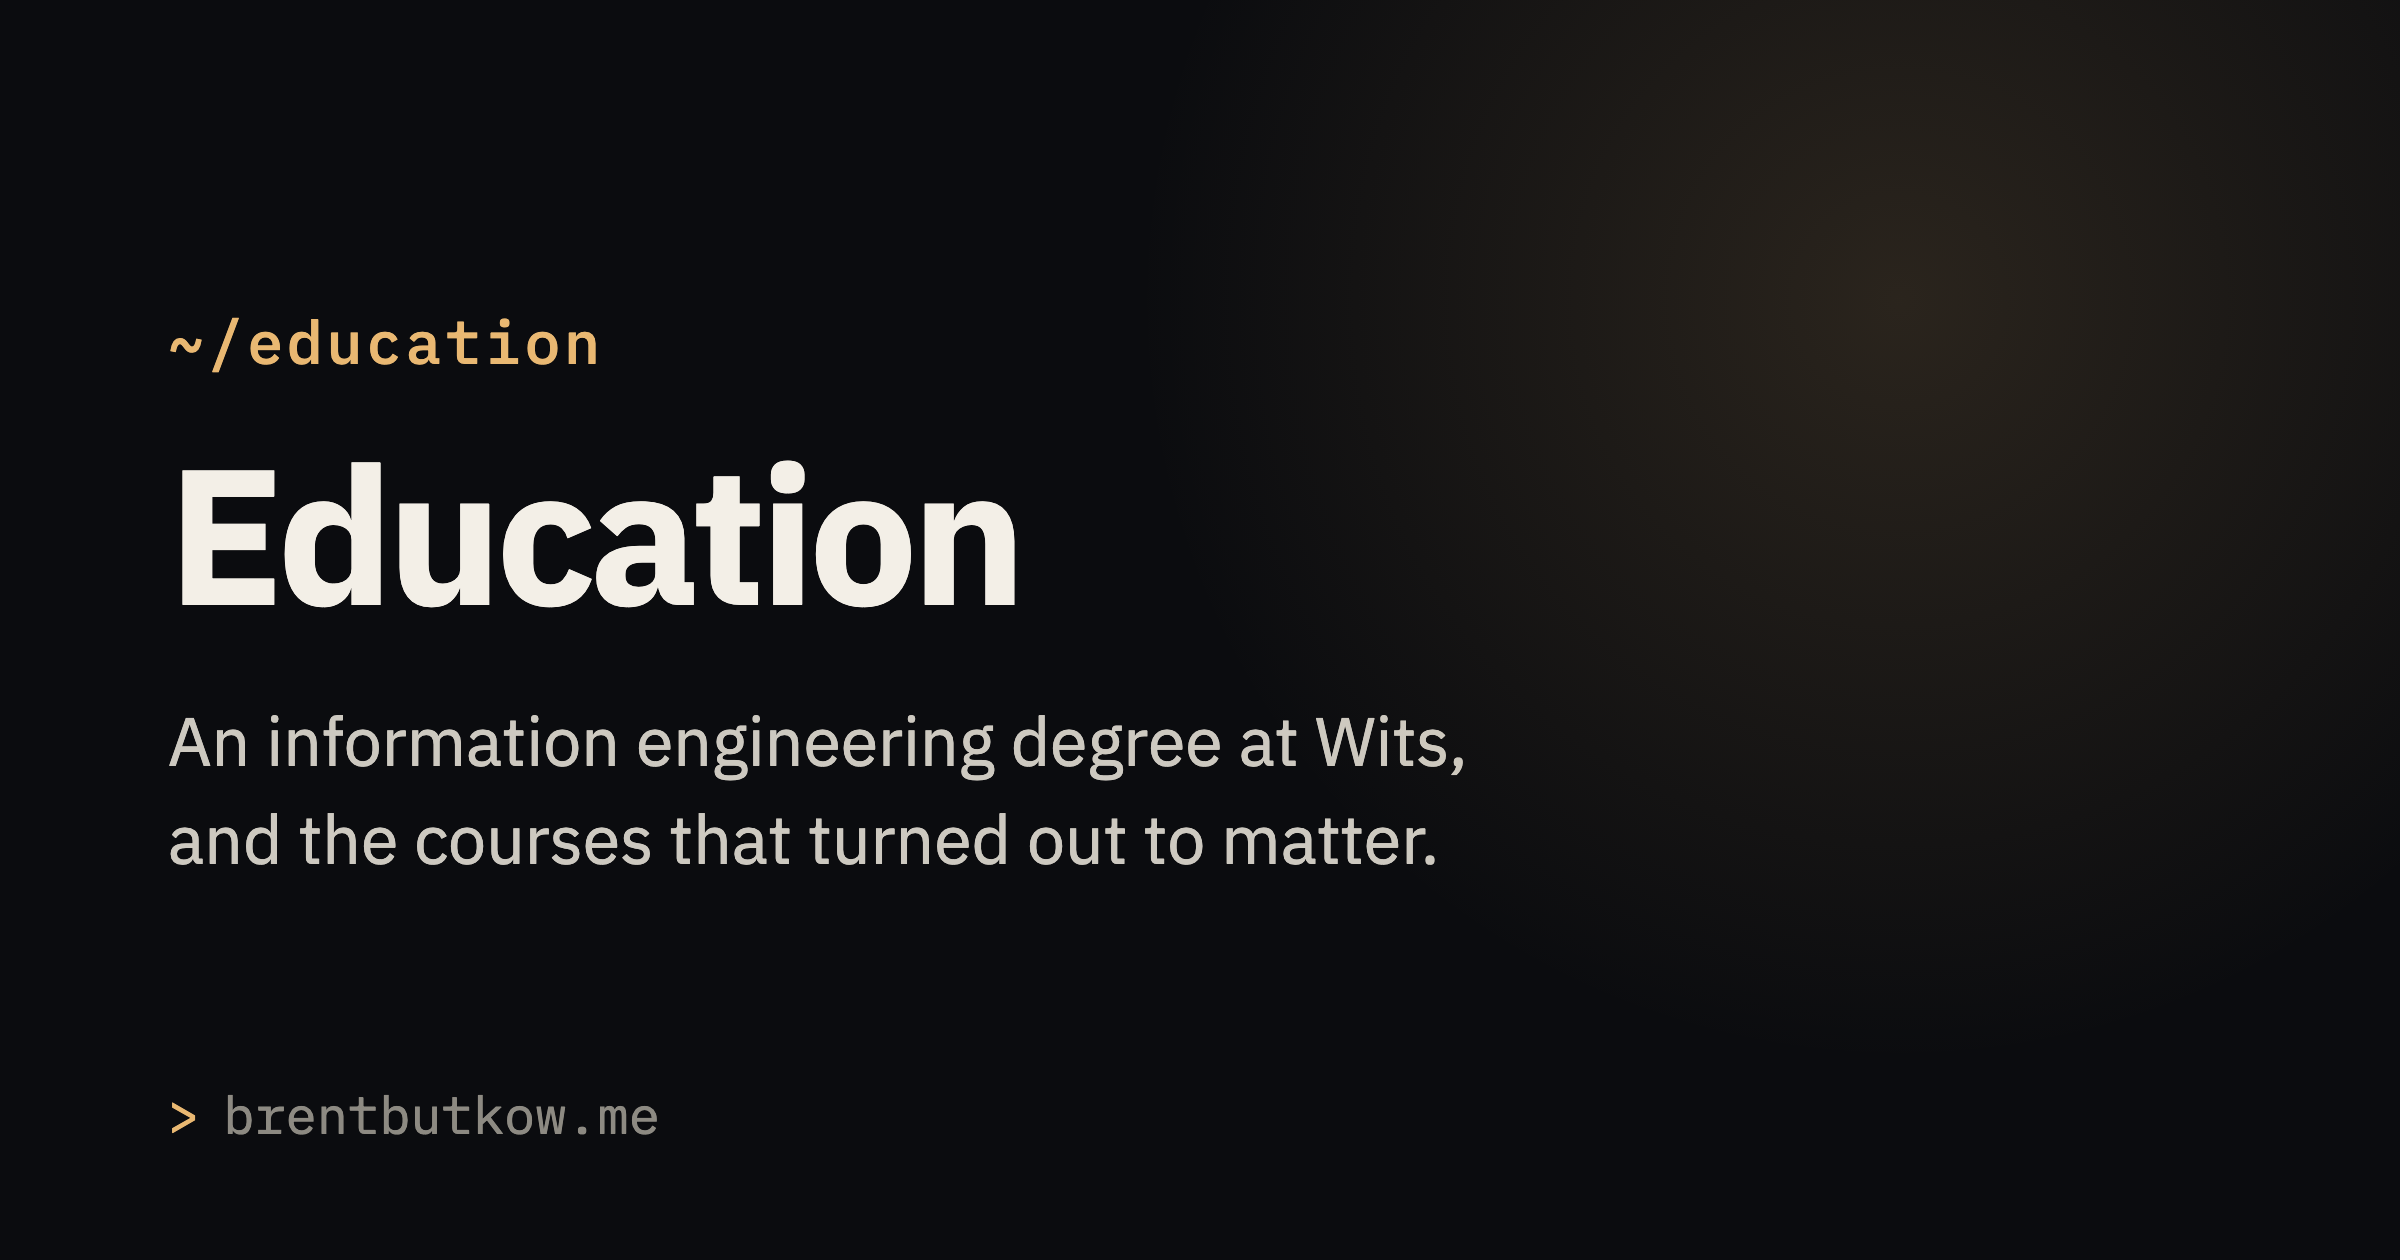
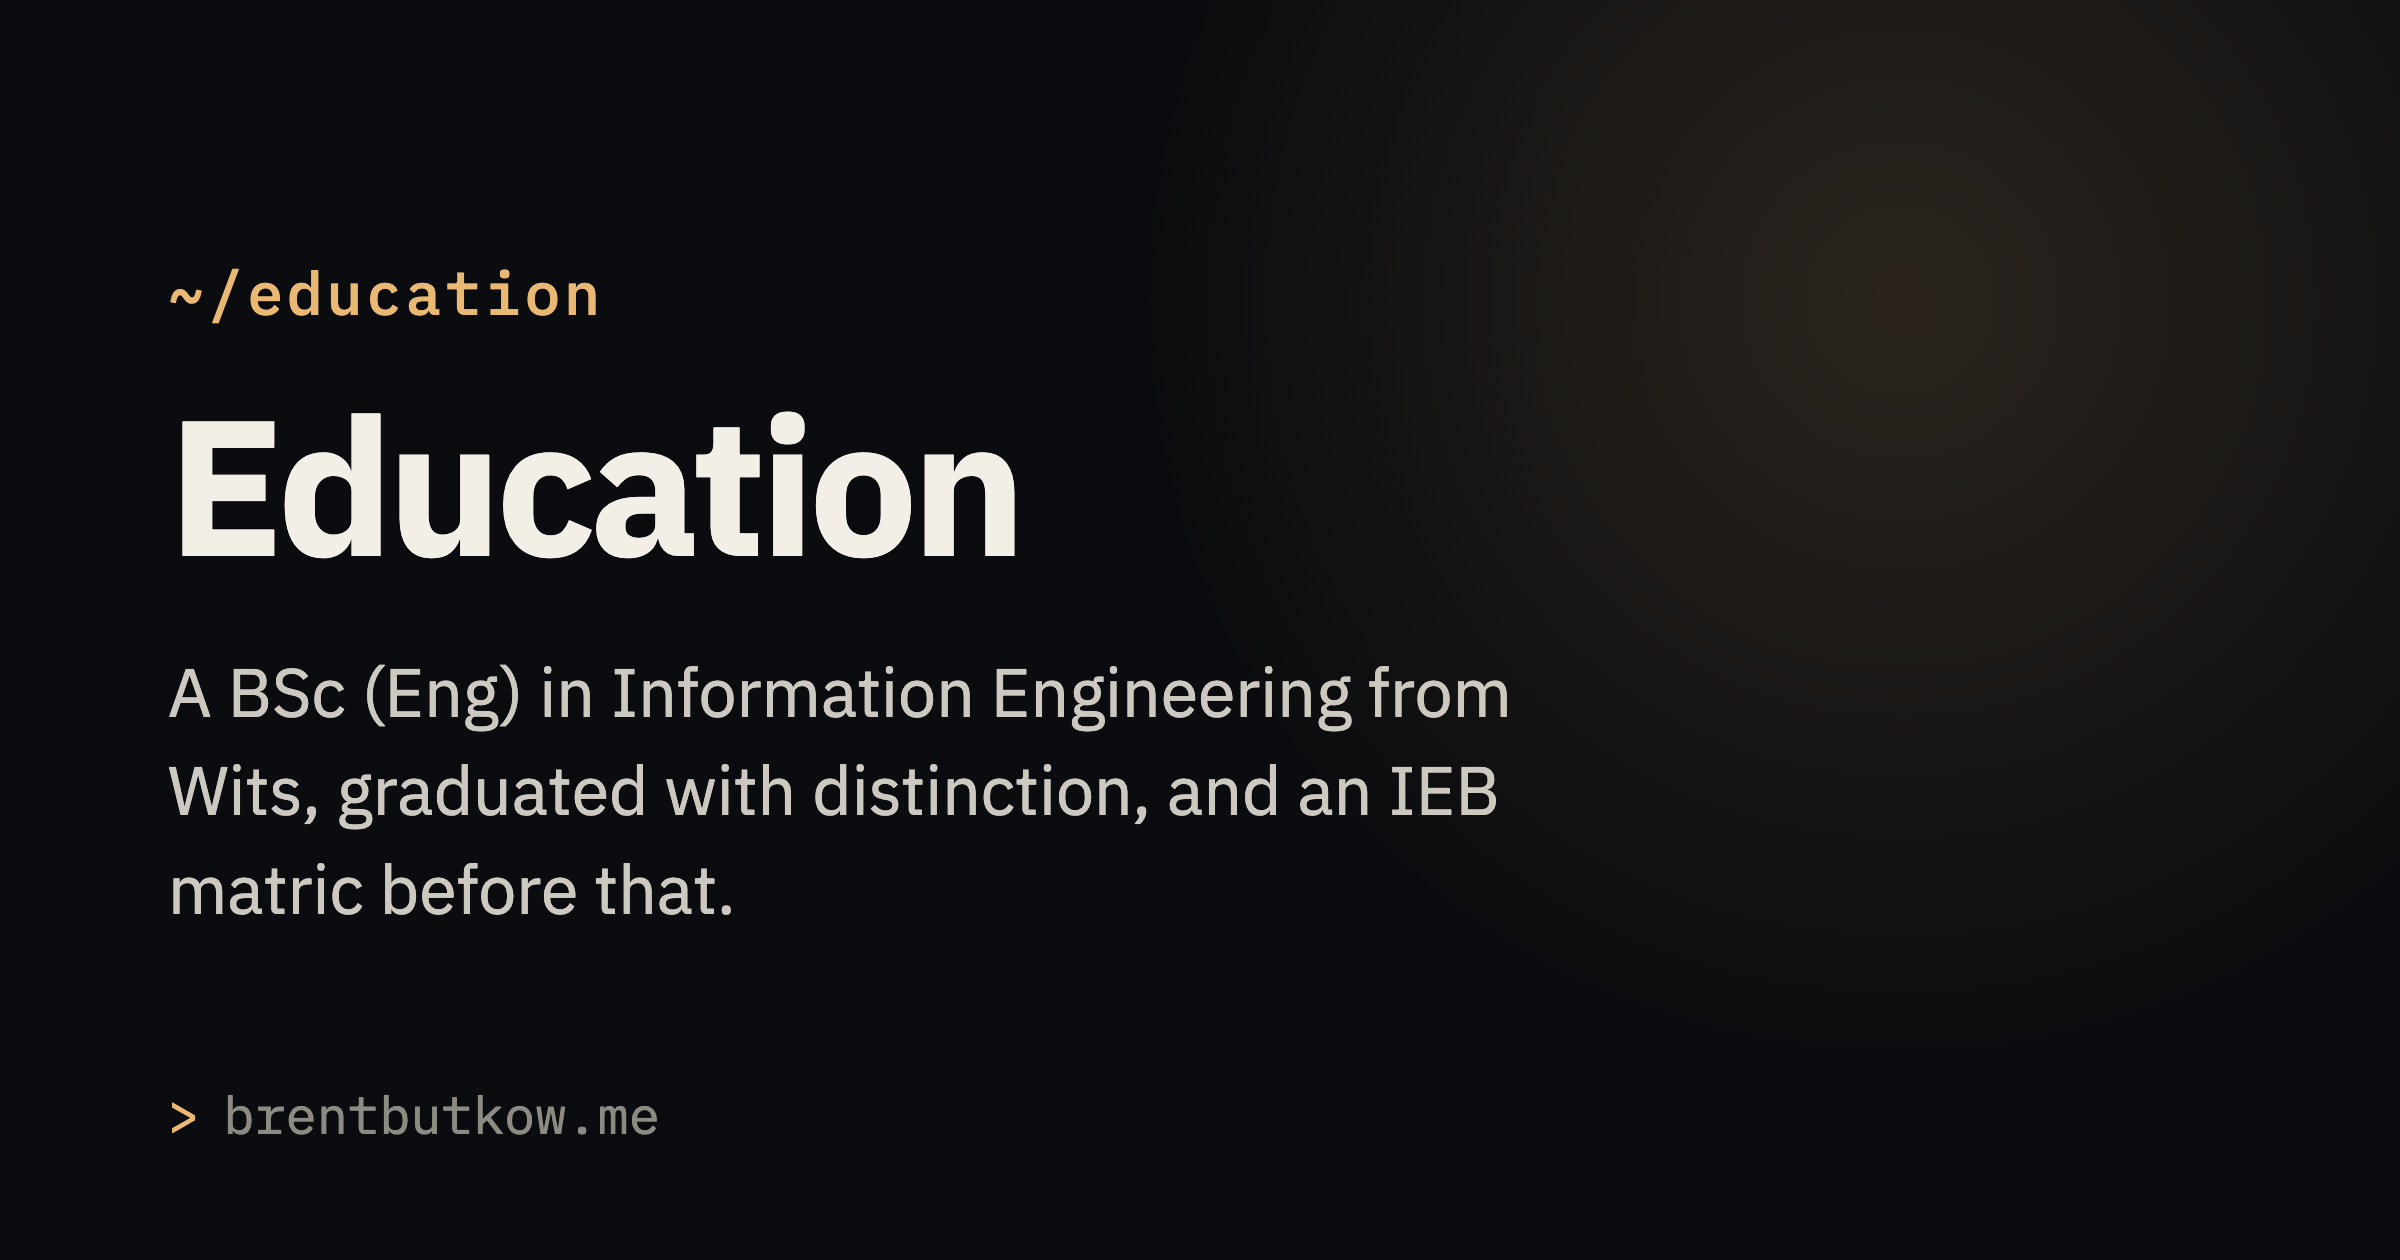
Update Open Graph metadata for improved clarity and detail across various sections

Changed region(s): [[0.0625, 0.5262, 0.625, 0.7429], [0.0625, 0.2167, 0.4375, 0.4952]]

diff --git a/scripts/og/og-template.html b/scripts/og/og-template.html
@@ -429,8 +429,8 @@
           path: '~/projects/recall-radar',
           title: 'Recall Radar',
           subtitle:
-            'Live food-recall tracking across the US, Canada, UK and South Africa — updated daily, with severity ratings and free email alerts.',
-          tags: ['FDA', 'USDA', 'CFIA', 'FSA', 'NCC'],
+            'Food-recall tracker across the US, Canada, UK, EU and South Africa. Updated daily, with severity ratings and free email alerts.',
+          tags: ['FDA', 'USDA', 'CFIA', 'FSA', 'RASFF', 'NCC'],
         },
         'pixel-world-simulator': {
           path: '~/fun-stuff/games/pixel-world-simulator',
@@ -454,34 +454,35 @@
           path: '~/experience',
           title: 'Experience',
           subtitle:
-            'Full-stack and cloud engineering roles, what the work involved, and what actually shipped.',
+            'Software engineering roles at Foodcomply, Entelect and RGA, plus earlier internships, with the tech stack used in each.',
           tags: [],
         },
         education: {
           path: '~/education',
           title: 'Education',
           subtitle:
-            'An information engineering degree at Wits, and the courses that turned out to matter.',
+            'A BSc (Eng) in Information Engineering from Wits, graduated with distinction, and an IEB matric before that.',
           tags: [],
         },
         achievements: {
           path: '~/achievements',
           title: 'Achievements',
-          subtitle: 'Awards and recognition picked up along the way, from university and since.',
+          subtitle:
+            'Academic awards, olympiad results and hackathon placings, listed by year from 2020 to 2025.',
           tags: [],
         },
         projects: {
           path: '~/projects',
           title: 'Projects',
           subtitle:
-            'Things built to be used by somebody, including Recall Radar, which tracks food recalls across five regions.',
+            'The bigger projects, built to be used. Recall Radar tracks food recalls across five regions from six government sources.',
           tags: [],
         },
         'fun-stuff': {
           path: '~/fun-stuff',
           title: 'Fun Stuff',
           subtitle:
-            'Experiments and side projects with no particular justification. Browser games, odd tools, and a joke sorting algorithm.',
+            'Four browser games, an ASCII art studio, an image encoder, an exhibit of hostile interfaces, and a joke sorting algorithm.',
           tags: [],
         },
         games: {
@@ -495,14 +496,14 @@
           path: '~/fun-stuff/course-projects',
           title: 'Course Projects',
           subtitle:
-            'What school and university had me build, kept on GitHub rather than tidied away.',
+            'Projects built for school and university coursework, from a chess AI to a multiplayer drawing game, all on GitHub.',
           tags: [],
         },
         contact: {
           path: '~/contact',
           title: 'Contact',
           subtitle:
-            'Email, GitHub, LinkedIn. Happy to hear about work, or about a bug on this site.',
+            'Contact me via Email, GitHub and LinkedIn - for work, for fun, or just to say hi.',
           tags: [],
         },
         'ascii-art': {
@@ -525,7 +526,7 @@
           path: '~/fun-stuff/gulag-sort',
           title: 'Gulag Sort',
           subtitle:
-            'A sorting algorithm that does not rearrange anything. Whatever is out of order simply stops being in the list.',
+            'A sorting algorithm that eliminates everything not in order, repeatedly, until the list is sorted.',
           tags: ['Runs in O(n)'],
           art: 'bars',
         },
